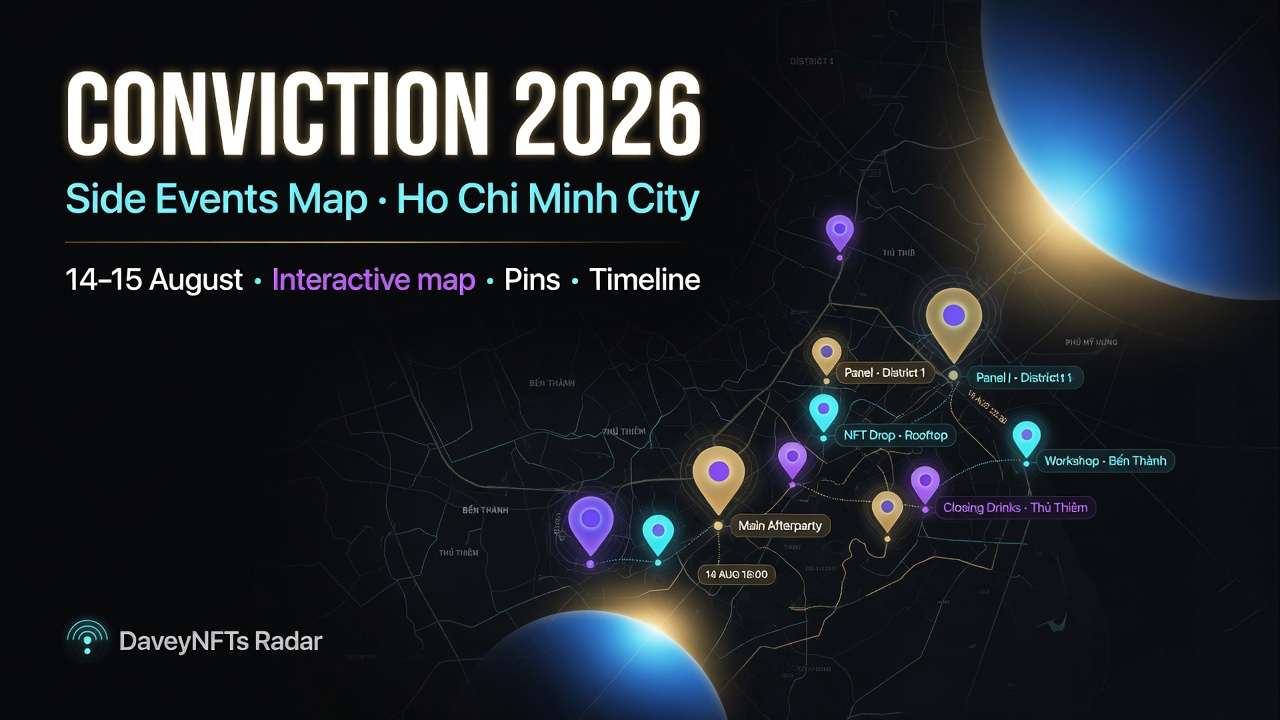
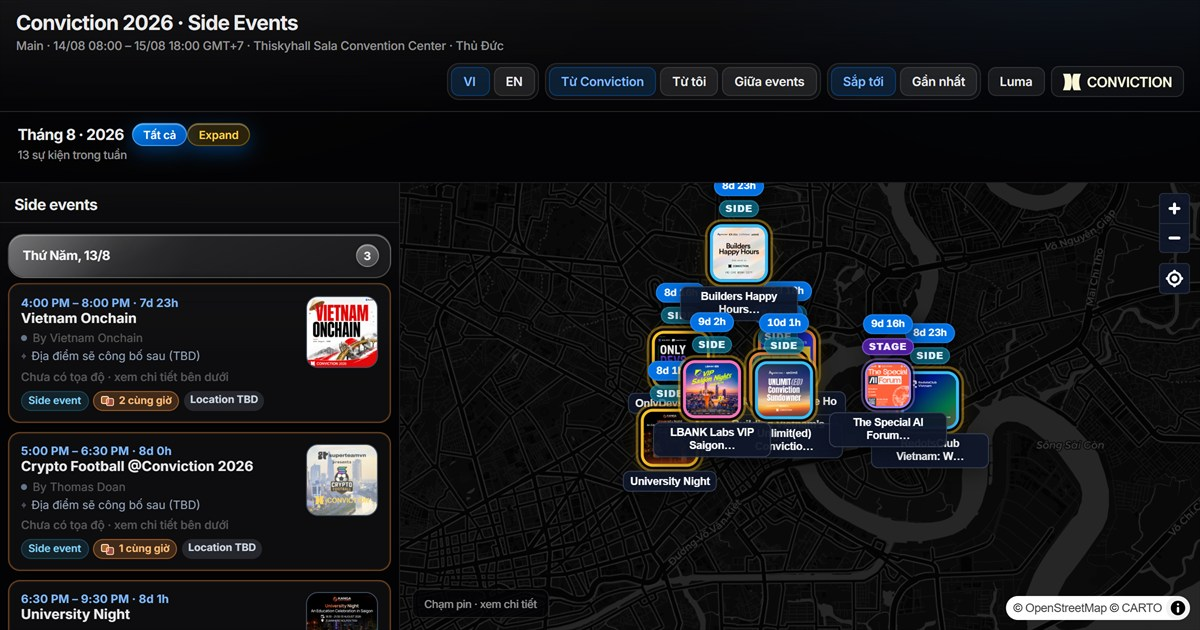
Use live product screenshot for Conviction event map OG preview.
Replace the AI map graphic with a real capture of the side-events UI (list + map pins) at 1200x630, and cache-bust og:image so Telegram refreshes the share card.

diff --git a/public/event-preview.html b/public/event-preview.html
@@ -29,14 +29,14 @@
     />
     <meta
       property="og:image"
-      content="https://radar.daveynfts.com/og/conviction-2026-events.jpg"
+      content="https://radar.daveynfts.com/og/conviction-2026-events.jpg?v=20260805b"
     />
     <meta property="og:image:type" content="image/jpeg" />
     <meta property="og:image:width" content="1200" />
     <meta property="og:image:height" content="630" />
     <meta
       property="og:image:alt"
-      content="Conviction 2026 Side Events Map — Ho Chi Minh City"
+      content="Conviction 2026 Side Events Map — live product screenshot"
     />
 
     <!-- Twitter / X -->
@@ -51,7 +51,7 @@
     />
     <meta
       name="twitter:image"
-      content="https://radar.daveynfts.com/og/conviction-2026-events.jpg"
+      content="https://radar.daveynfts.com/og/conviction-2026-events.jpg?v=20260805b"
     />
 
     <link

diff --git a/src/lib/eventMapSeo.ts b/src/lib/eventMapSeo.ts
@@ -8,7 +8,9 @@ const DESCRIPTION =
   'Bản đồ side events Conviction 2026 tại TP.HCM (14–15/08). Lịch, pin, khoảng cách, trùng giờ — Thiskyhall Sala & venues around the city.'
 const DESCRIPTION_EN =
   'Interactive map of Conviction 2026 side events in Ho Chi Minh City · 14–15 Aug · calendar, pins, distance & schedule conflicts.'
-const OG_IMAGE = 'https://radar.daveynfts.com/og/conviction-2026-events.jpg'
+/** Cache-bust query when replacing the product screenshot OG card. */
+const OG_IMAGE =
+  'https://radar.daveynfts.com/og/conviction-2026-events.jpg?v=20260805b'
 const CANONICAL = 'https://radar.daveynfts.com/event/conviction-2026'
 
 function upsertMeta(
